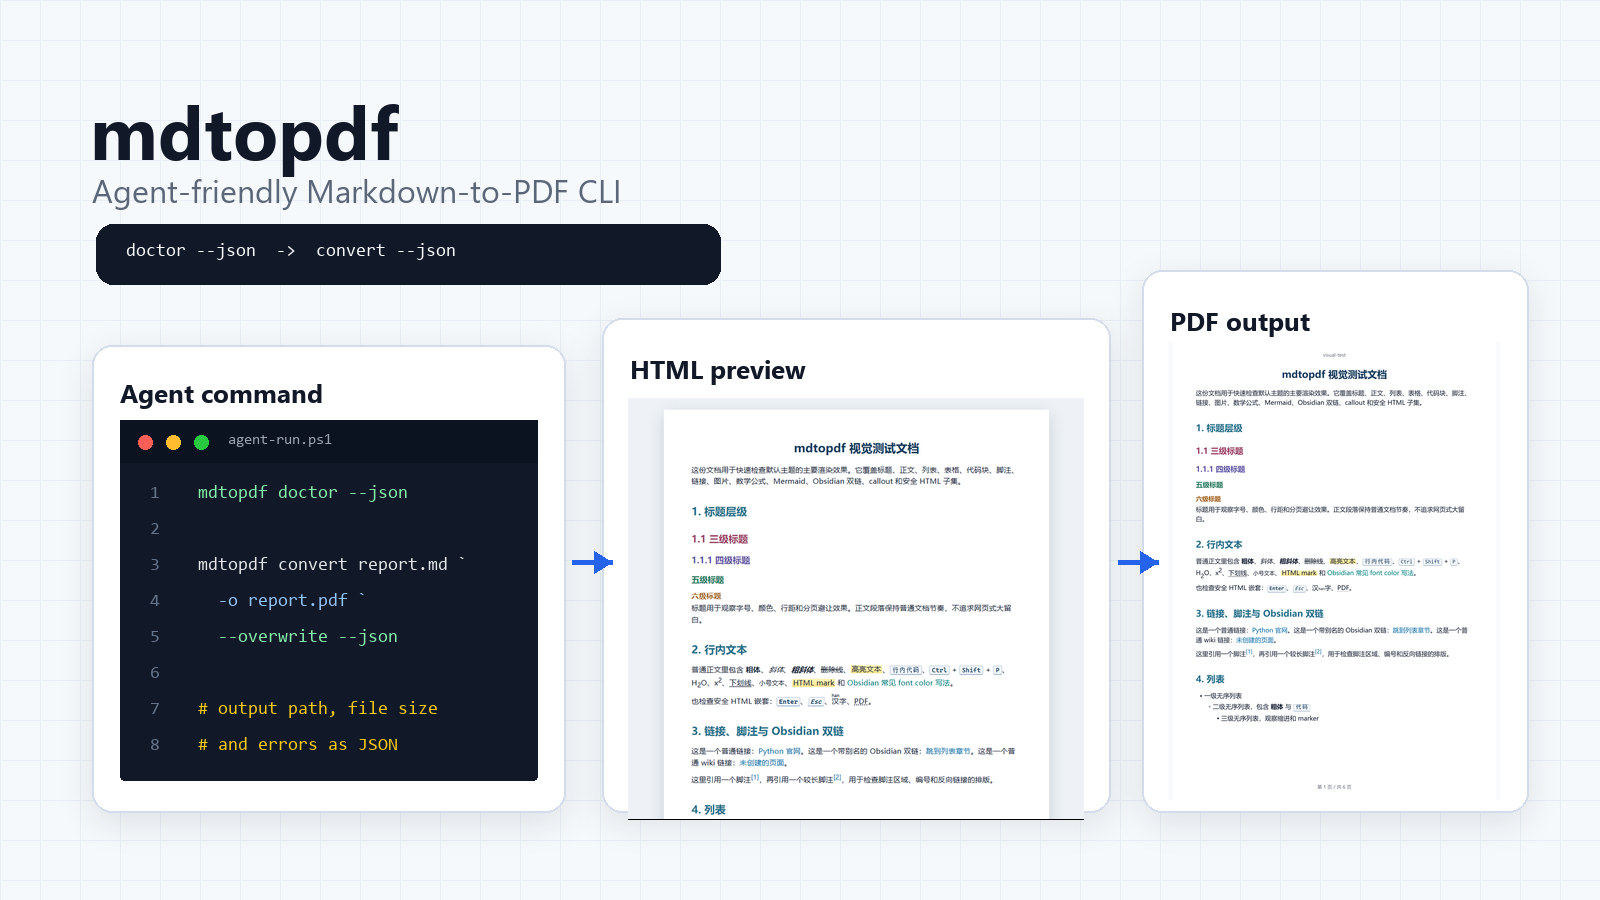
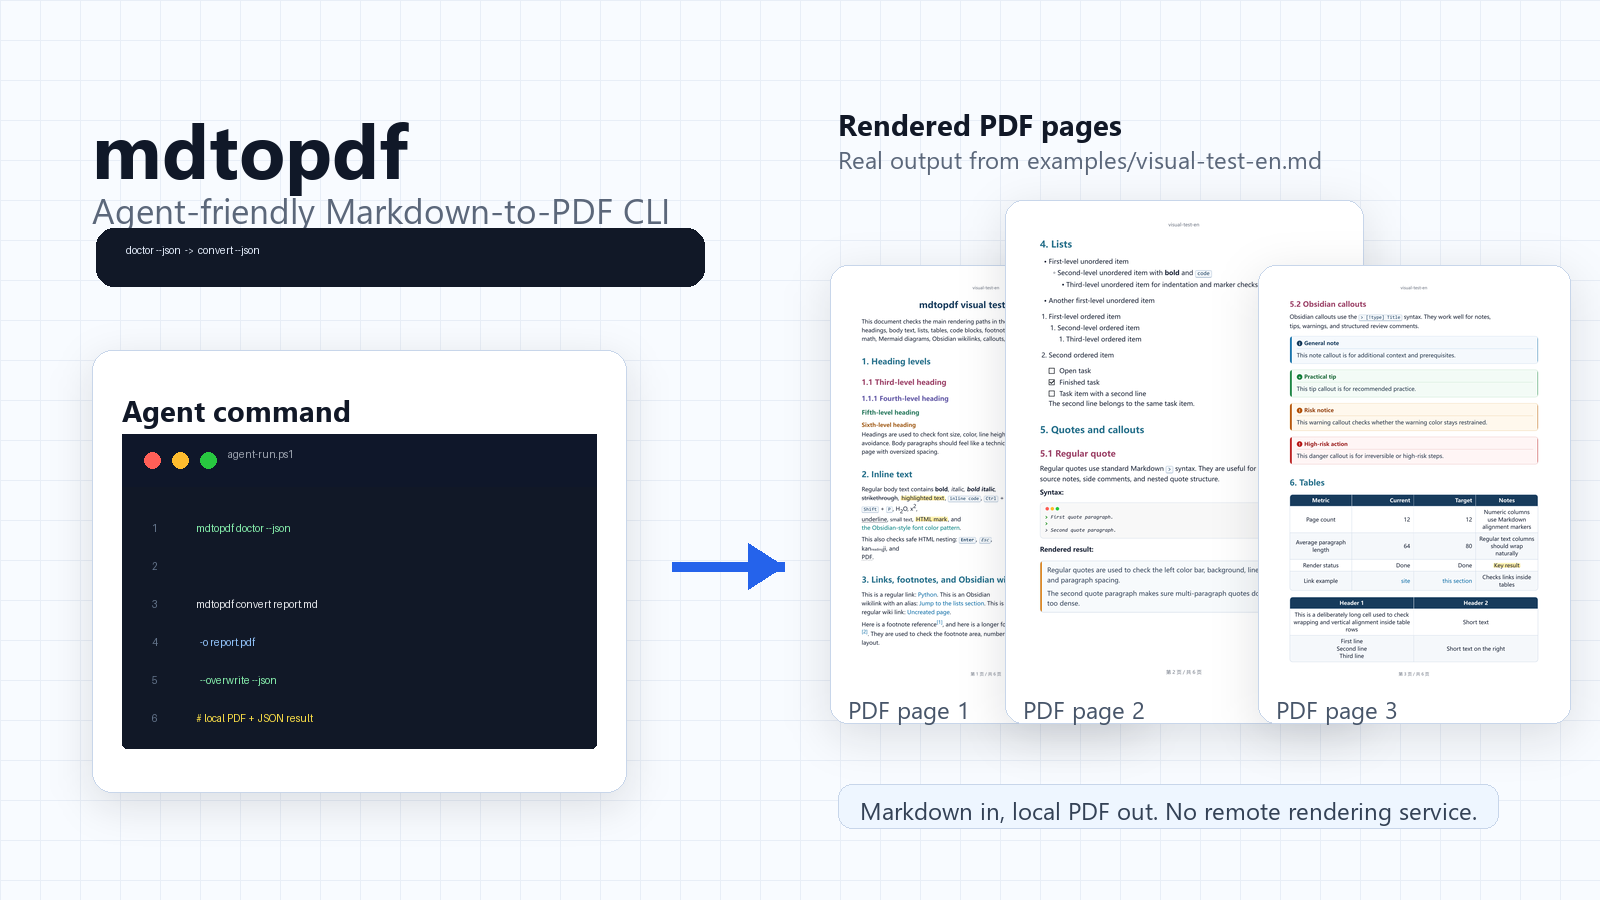
docs: show rendered PDF pages in README

diff --git a/README.md b/README.md
@@ -12,7 +12,7 @@
 <p align="center">
   <a href="#quick-start"><img src="https://img.shields.io/badge/Quick_Start-2_min-blue?style=for-the-badge" alt="Quick Start"></a>
   <a href="#agent-workflow"><img src="https://img.shields.io/badge/Agent_Friendly-JSON_Output-green?style=for-the-badge" alt="Agent Friendly"></a>
-  <a href="#visual-output"><img src="https://img.shields.io/badge/Preview-HTML_%2B_PDF-purple?style=for-the-badge" alt="HTML and PDF preview"></a>
+  <a href="#visual-output"><img src="https://img.shields.io/badge/PDF_Pages-Rendered-purple?style=for-the-badge" alt="Rendered PDF pages"></a>
   <a href="https://pypi.org/project/mdtopdf/"><img src="https://img.shields.io/pypi/v/mdtopdf.svg?style=for-the-badge" alt="PyPI version"></a>
   <a href="https://github.com/ABClize/mdtopdf/blob/main/LICENSE"><img src="https://img.shields.io/badge/License-Apache_2.0-yellow?style=for-the-badge" alt="License"></a>
 </p>
@@ -97,16 +97,18 @@ fix.
 
 ## Visual output
 
-HTML preview and PDF export use the same Markdown pipeline. HTML is useful for
-quick checks of typography, spacing, and images; PDF is the final page layout.
+The gallery below is rendered from the final PDF produced by
+`examples/visual-test-en.md`. It shows the actual pages an agent can hand back
+to a user: headings, callouts, tables, code, math, images, Mermaid, and
+pagination.
 
-<p align="center">
-  <img src="assets/readme/workflow.png" alt="mdtopdf workflow" width="900">
-</p>
-
-| HTML preview | PDF output |
+| Page 1 | Page 2 |
 | --- | --- |
-| ![HTML preview](assets/readme/html-preview.png) | ![PDF output](assets/readme/pdf-output.png) |
+| <img src="assets/readme/pdf-page-en-1.png" alt="PDF page 1" width="420"> | <img src="assets/readme/pdf-page-en-2.png" alt="PDF page 2" width="420"> |
+| Page 3 | Page 4 |
+| <img src="assets/readme/pdf-page-en-3.png" alt="PDF page 3" width="420"> | <img src="assets/readme/pdf-page-en-4.png" alt="PDF page 4" width="420"> |
+| Page 5 | Page 6 |
+| <img src="assets/readme/pdf-page-en-5.png" alt="PDF page 5" width="420"> | <img src="assets/readme/pdf-page-en-6.png" alt="PDF page 6" width="420"> |
 
 ## How it works
 

diff --git a/README_CN.md b/README_CN.md
@@ -12,7 +12,7 @@
 <p align="center">
   <a href="#快速上手"><img src="https://img.shields.io/badge/快速上手-2_分钟-blue?style=for-the-badge" alt="快速上手"></a>
   <a href="#agent-调用方式"><img src="https://img.shields.io/badge/Agent_friendly-JSON_输出-green?style=for-the-badge" alt="Agent friendly"></a>
-  <a href="#输出效果"><img src="https://img.shields.io/badge/预览-HTML_%2B_PDF-purple?style=for-the-badge" alt="HTML 和 PDF 预览"></a>
+  <a href="#输出效果"><img src="https://img.shields.io/badge/PDF_页面-渲染效果-purple?style=for-the-badge" alt="PDF 页面渲染效果"></a>
   <a href="https://pypi.org/project/mdtopdf/"><img src="https://img.shields.io/pypi/v/mdtopdf.svg?style=for-the-badge" alt="PyPI version"></a>
   <a href="https://github.com/ABClize/mdtopdf/blob/main/LICENSE"><img src="https://img.shields.io/badge/License-Apache_2.0-yellow?style=for-the-badge" alt="License"></a>
 </p>
@@ -94,16 +94,16 @@ JSON 里会有结构化错误，Agent 可以直接把命令、原因和下一步
 
 ## 输出效果
 
-HTML 预览和 PDF 导出走同一套 Markdown pipiline。HTML 适合快速看字体、间距和图片；
-PDF 是最终分页效果。
+下面 6 张图来自 `examples/visual-test-cn.md`，能看到标题、Callout、表格、代码、
+公式、图片、Mermaid 和分页的实际效果。
 
-<p align="center">
-  <img src="assets/readme/workflow.png" alt="mdtopdf workflow" width="900">
-</p>
-
-| HTML 预览 | PDF 输出 |
+| 第 1 页 | 第 2 页 |
 | --- | --- |
-| ![HTML preview](assets/readme/html-preview.png) | ![PDF output](assets/readme/pdf-output.png) |
+| <img src="assets/readme/pdf-page-cn-1.png" alt="PDF 第 1 页" width="420"> | <img src="assets/readme/pdf-page-cn-2.png" alt="PDF 第 2 页" width="420"> |
+| 第 3 页 | 第 4 页 |
+| <img src="assets/readme/pdf-page-cn-3.png" alt="PDF 第 3 页" width="420"> | <img src="assets/readme/pdf-page-cn-4.png" alt="PDF 第 4 页" width="420"> |
+| 第 5 页 | 第 6 页 |
+| <img src="assets/readme/pdf-page-cn-5.png" alt="PDF 第 5 页" width="420"> | <img src="assets/readme/pdf-page-cn-6.png" alt="PDF 第 6 页" width="420"> |
 
 ## 工作方式
 